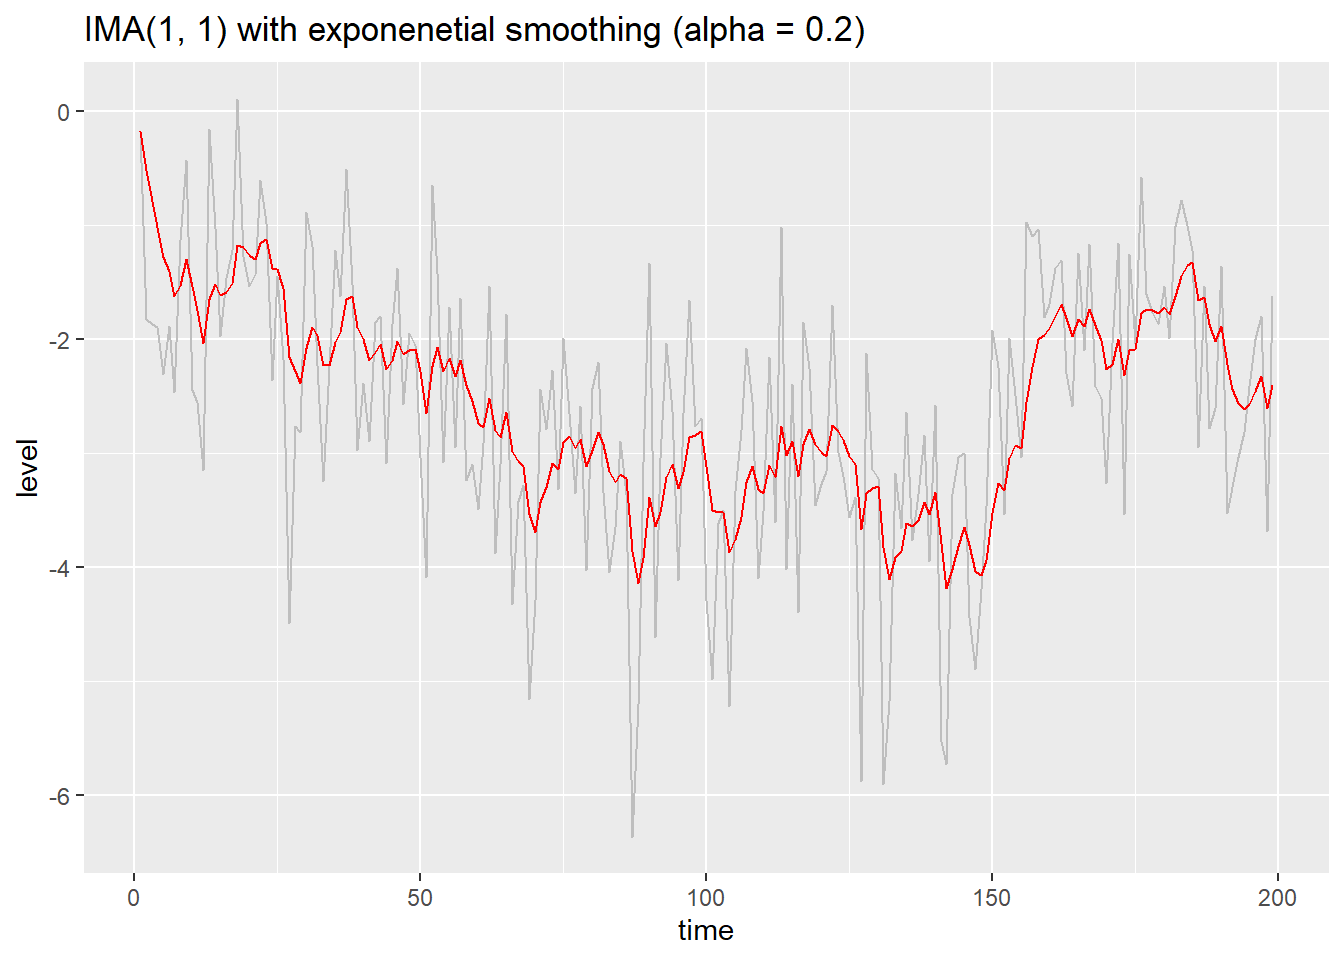
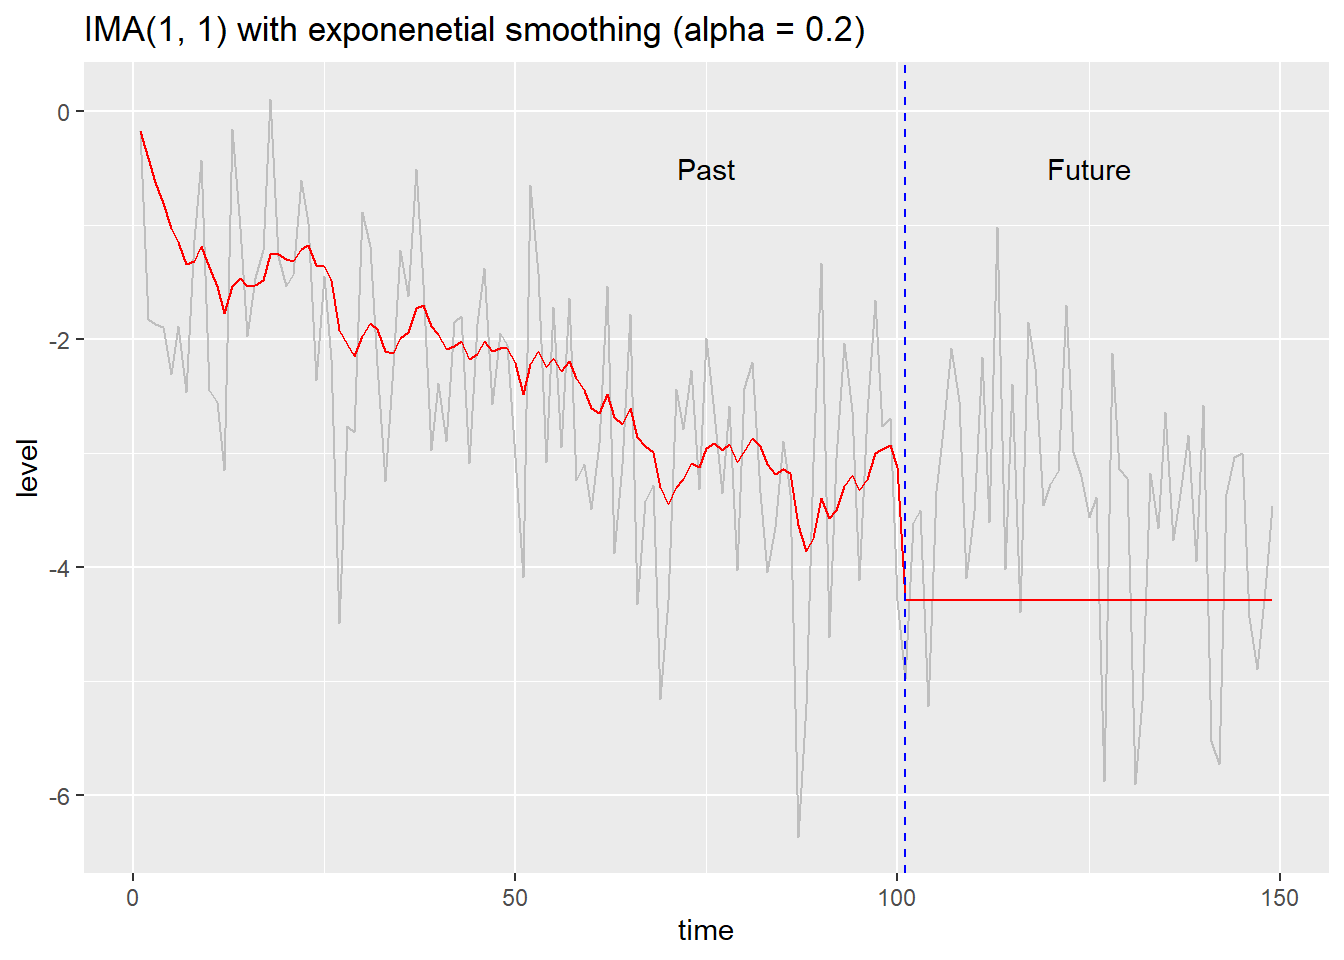
markdown > s5b_ts_forecast > QMD > EWMA Example: create tibble to show forecast confidence bounds.  Failed attempt to deploy to ggplot2::geom_polygon.

diff --git a/markdown/s5b_ts_forecast/s5b_ts_forecast.html b/markdown/s5b_ts_forecast/s5b_ts_forecast.html
@@ -184,7 +184,7 @@ window.Quarto = {
     <div>
     <div class="quarto-title-meta-heading">Published</div>
     <div class="quarto-title-meta-contents">
-      <p class="date">14:22 Sat 28-Jun-2025</p>
+      <p class="date">15:50 Sat 28-Jun-2025</p>
     </div>
   </div>
   
@@ -1600,7 +1600,7 @@ Figure&nbsp;4: Random walk with drift: cumsum of N(drift = 0.2, sd = 1)
   &amp;= \sigma_W^2 \; \left \{ 1 + \lambda^2 + (u-1)\; (1 - \lambda)^2 \right \} \quad \text{for } u \ge 1
 \end{align}
 \]</span></p>
-<p><a href="#fig-EWMA-plus-wn" class="quarto-xref">Figure&nbsp;5</a> shows a simulation of the IMA process <span class="math inline">\(X(\cdot)\)</span>, along with the one step ahead exponential smoothing of past values. We set <span class="math inline">\(\lambda =\)</span> 0.8, equivalent to an EWMA smoothing parameter of <span class="math inline">\(\alpha = 1 - \lambda =\)</span> 0.2.</p>
+<p><a href="#fig-EWMA-plus-wn" class="quarto-xref">Figure&nbsp;5</a> shows a simulation of the IMA process <span class="math inline">\(X(\cdot)\)</span>, along with one step ahead exponential smoothing of past values, and the <span class="math inline">\(IMA(1, 1)\)</span> forecast of future values. We set <span class="math inline">\(\lambda =\)</span> 0.8, equivalent to an EWMA smoothing parameter of <span class="math inline">\(\alpha = 1 - \lambda =\)</span> 0.2.</p>
 <div class="cell">
 <div class="cell-output-display">
 <div id="fig-EWMA-plus-wn" class="quarto-float quarto-figure quarto-figure-center anchored">
